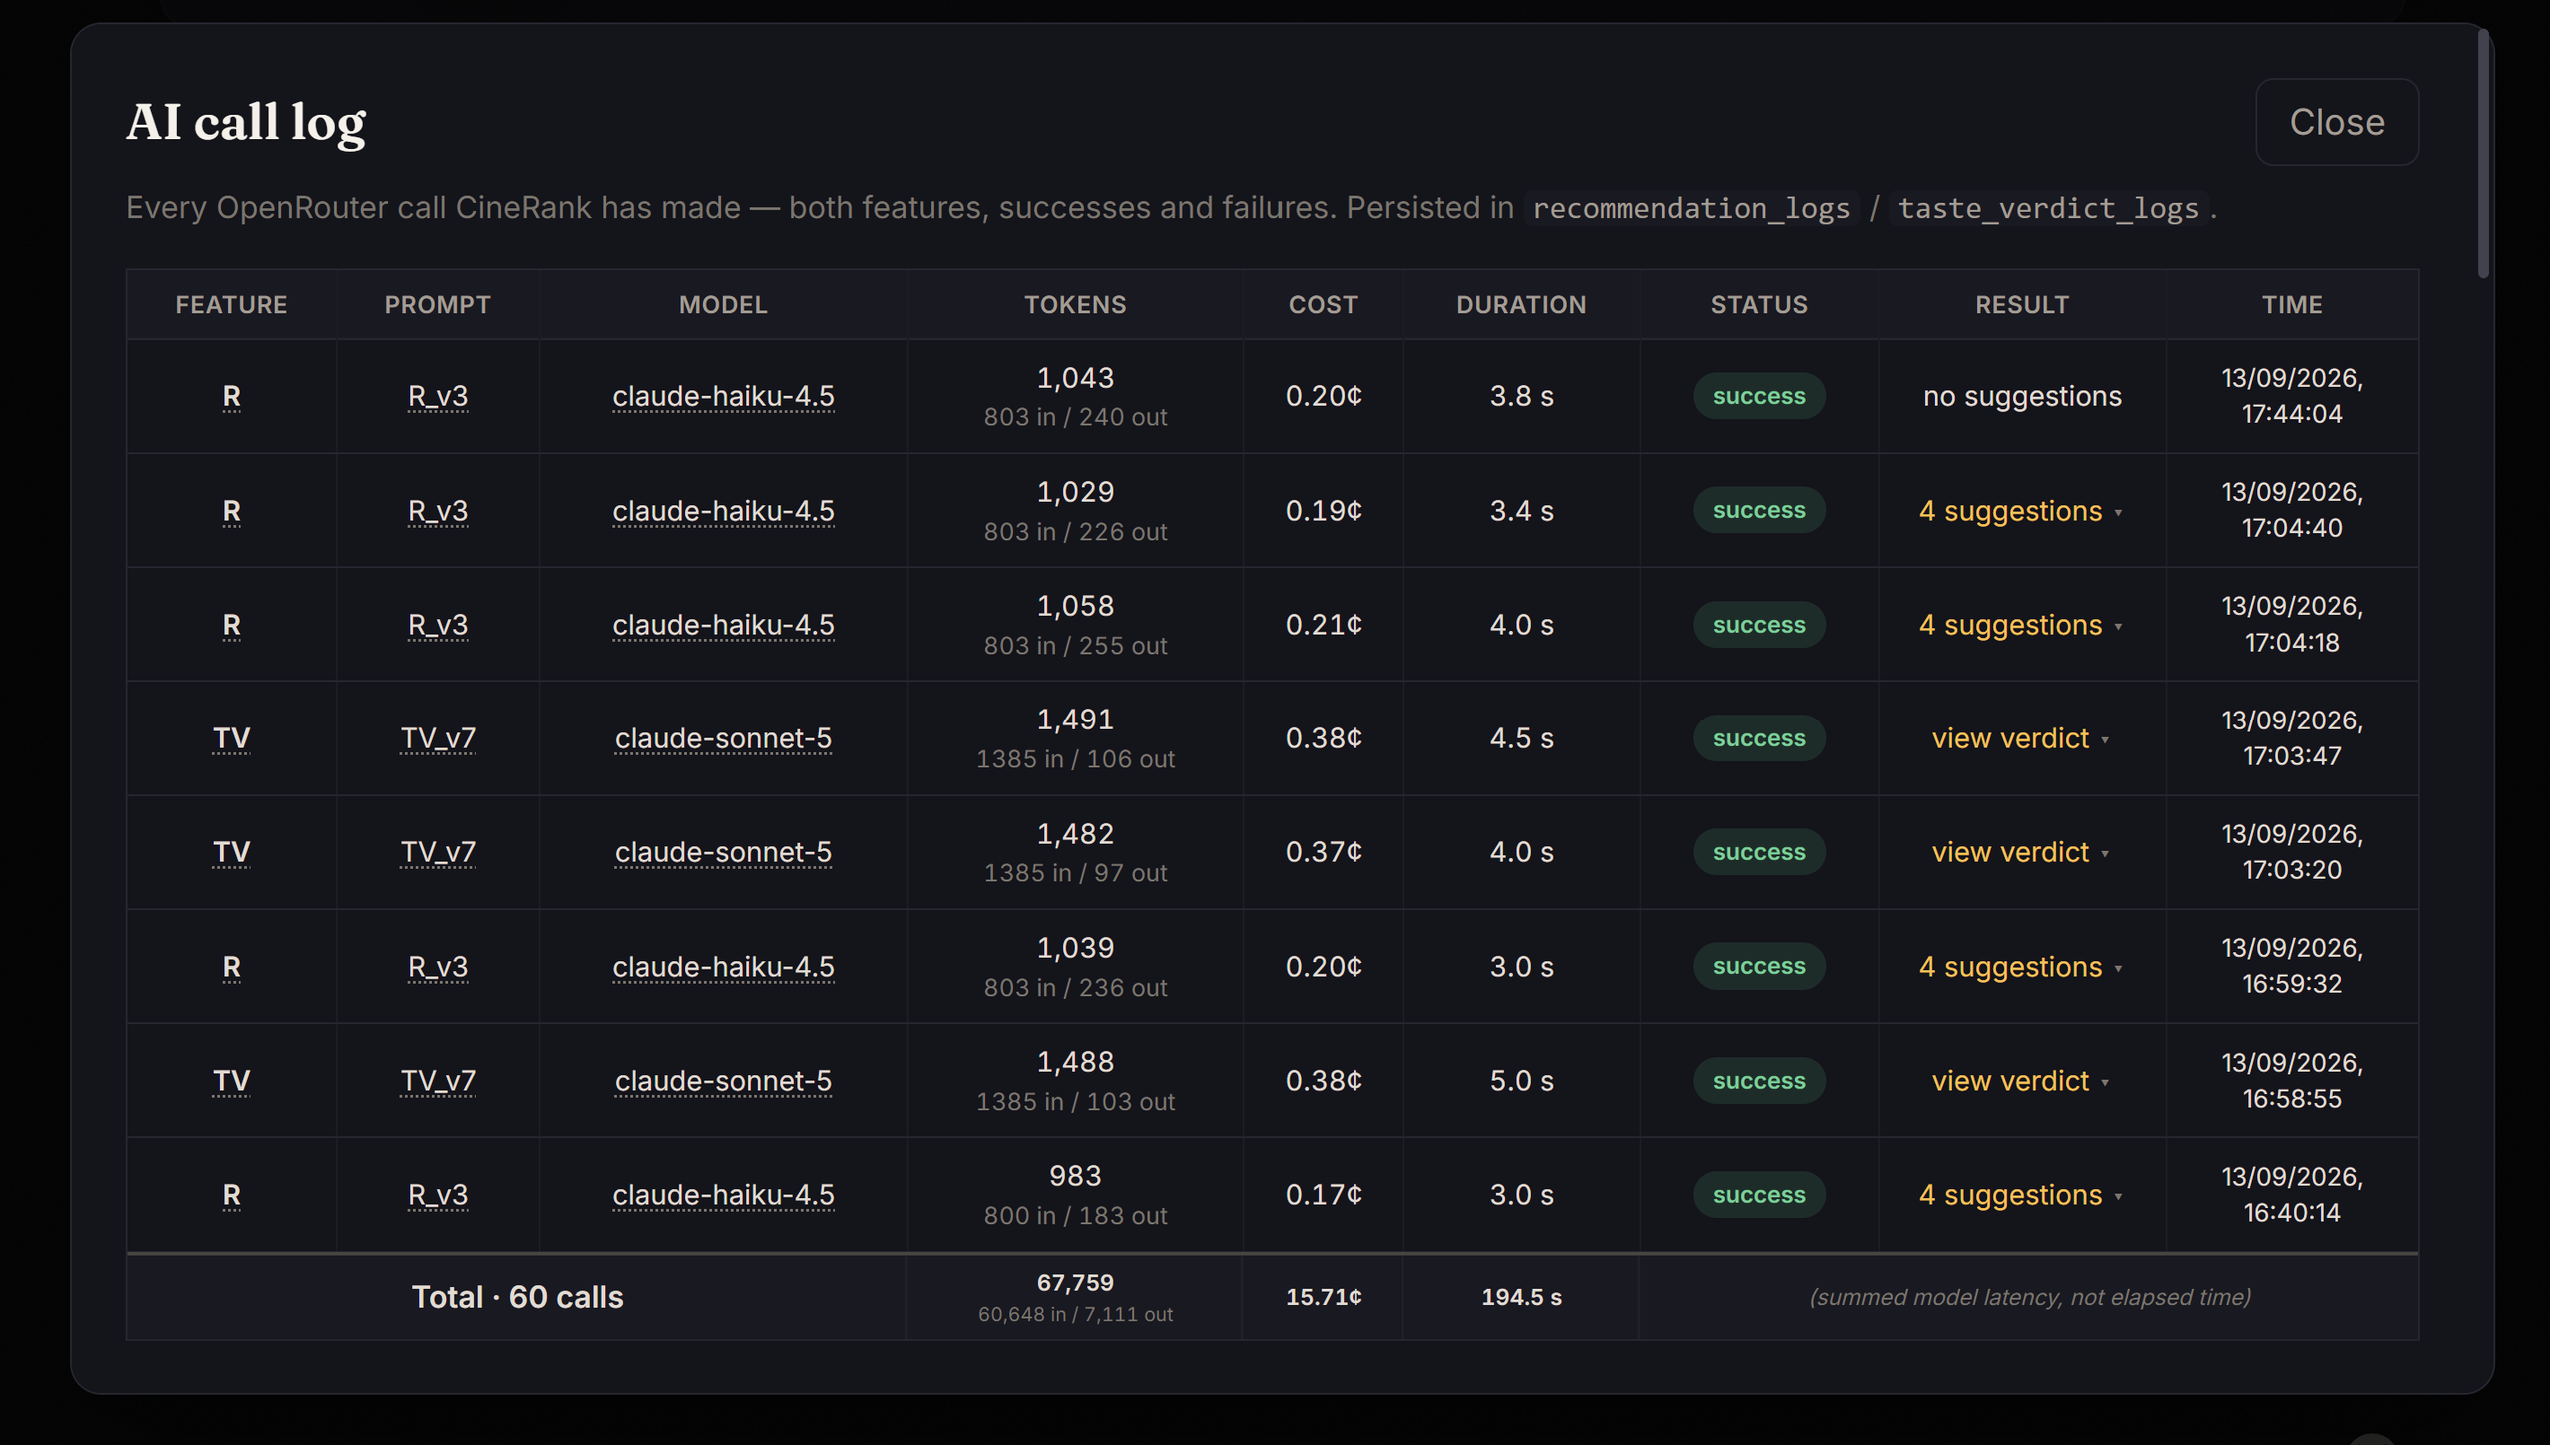
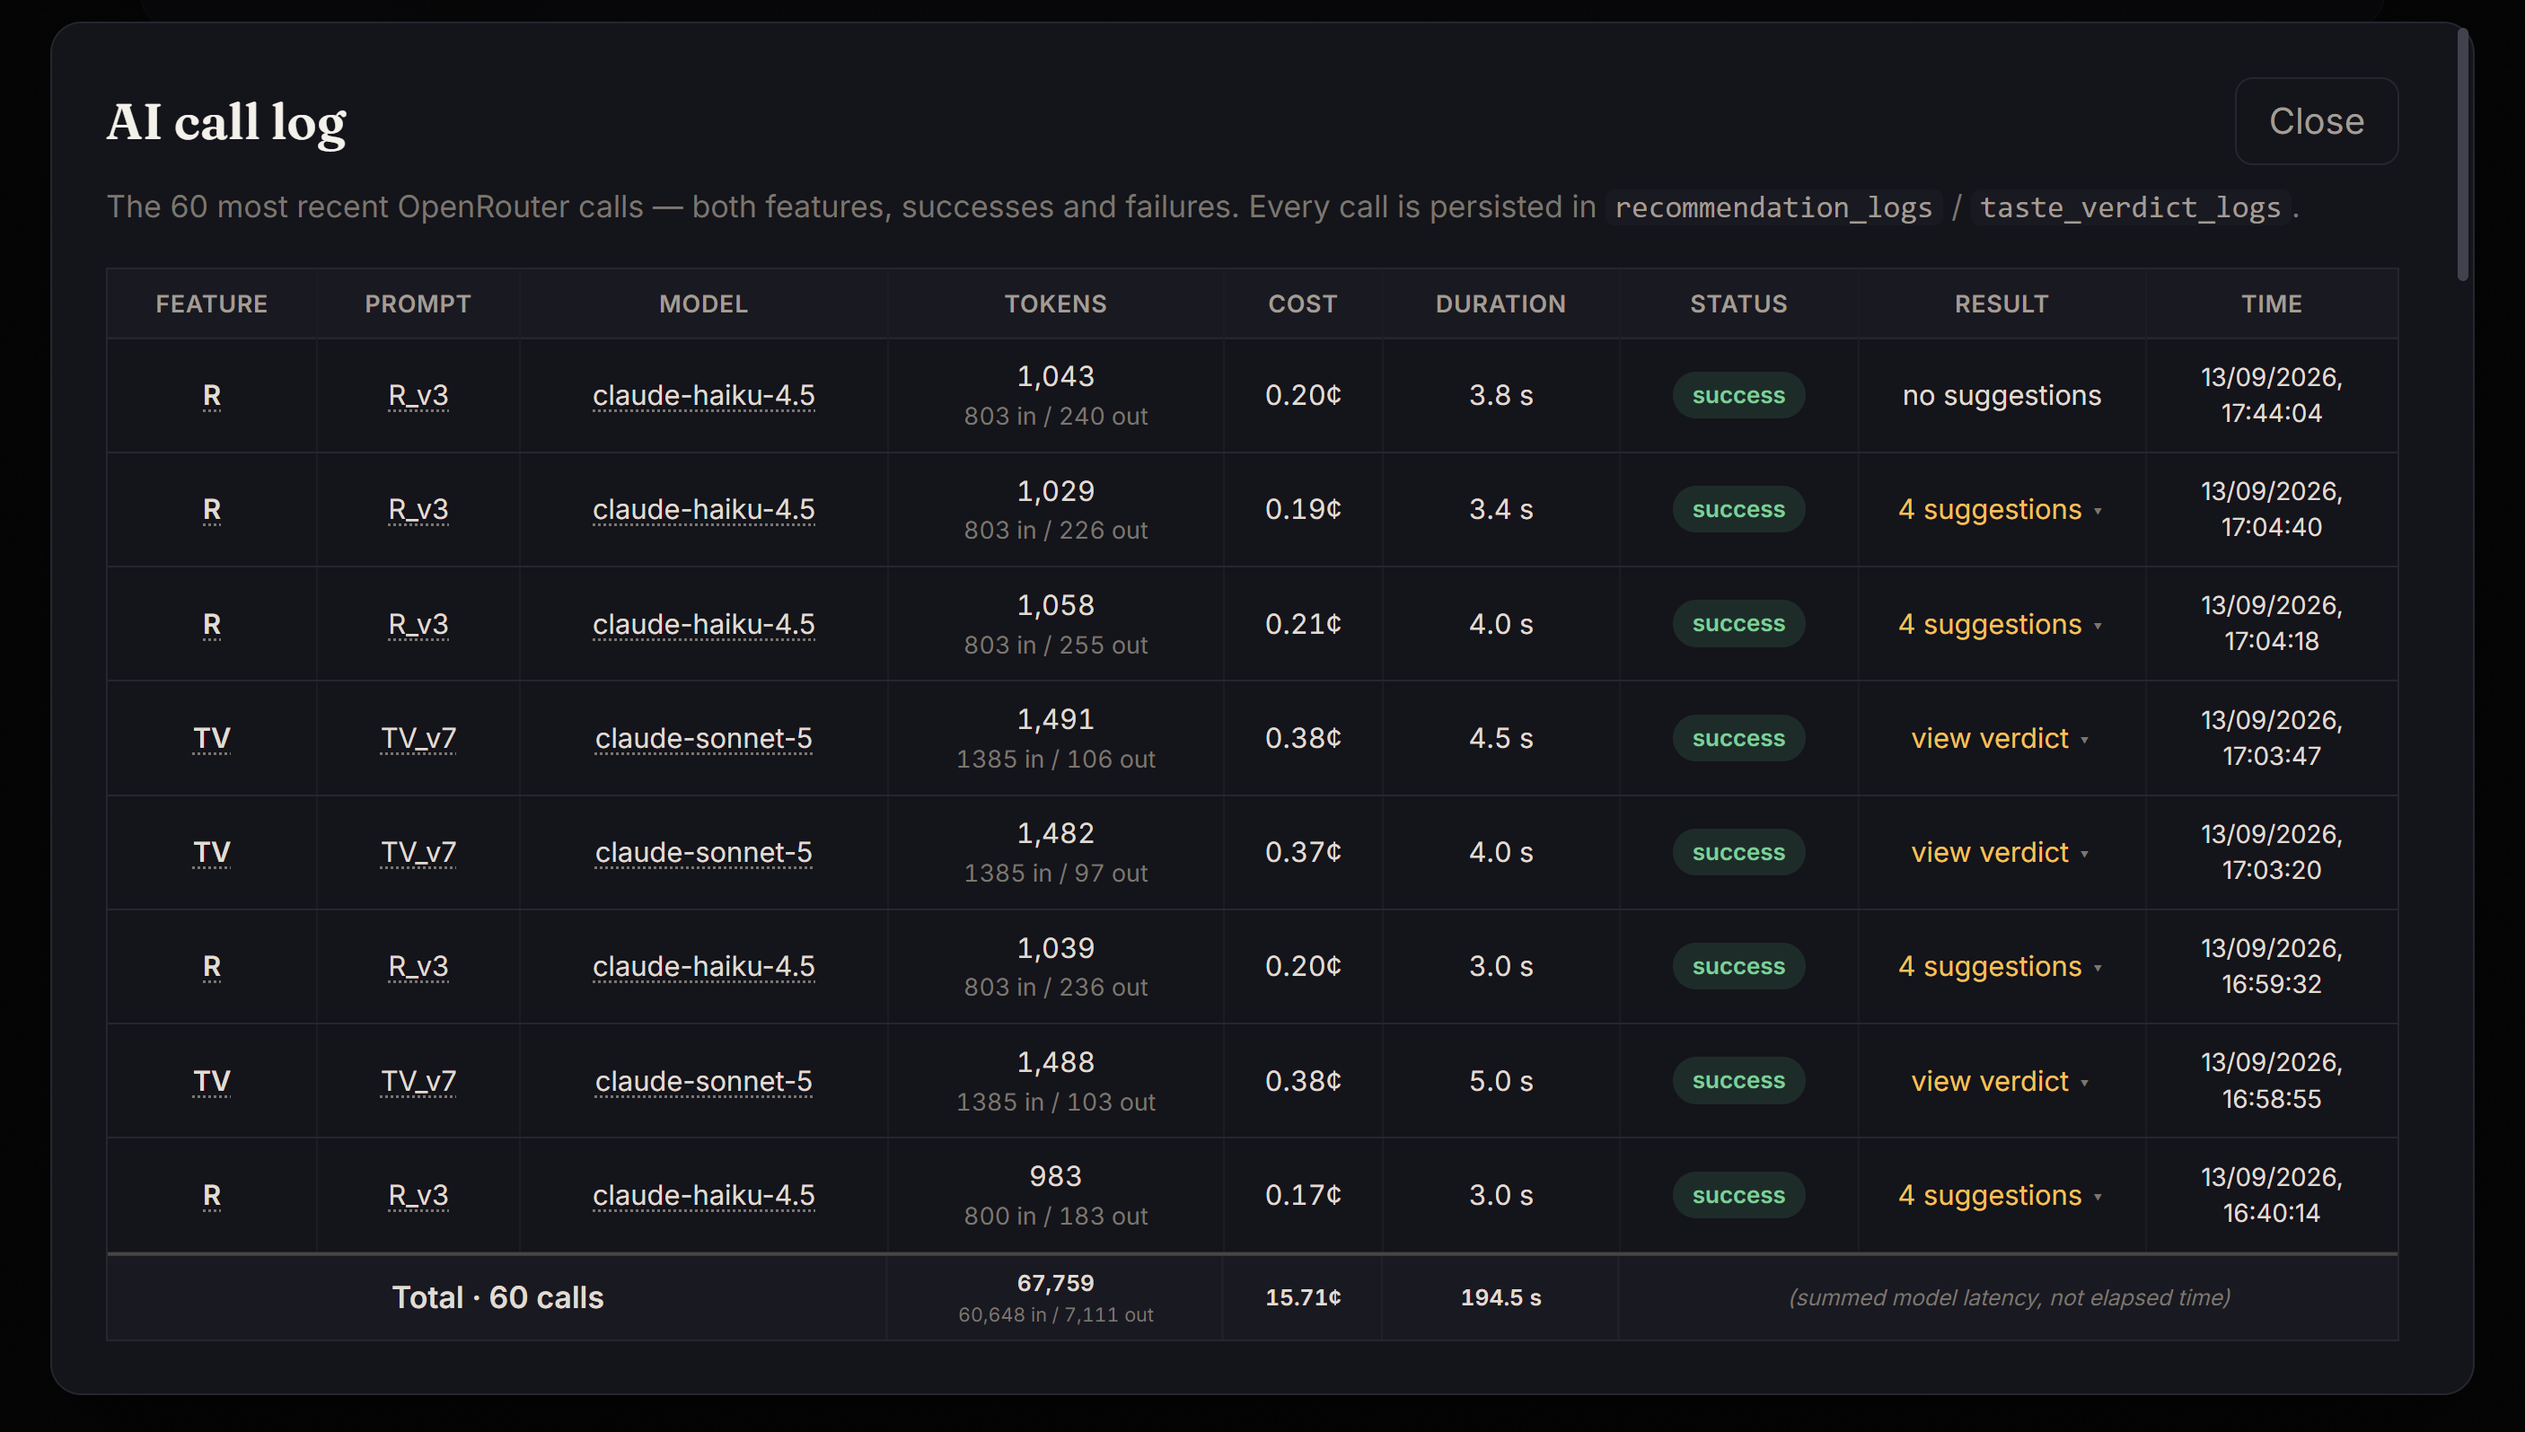
docs: RS-4 complete, and both log frames re-shot against the corrected copy
THE RS-4 LOG ROW. Red failed badge, OpenRouter responded 401 in crimson, em dashes in Tokens and Cost, 74 ms. Each of those carries something. The cause names OpenRouter, which is what rules out a leftover broken TMDB key from the previous group. The em dashes are a call that never completed reporting nothing rather than a misleading zero. And 74 ms says WHERE it died: rejected at auth, never reaching inference.

Put beside rs-4-openrouter-down-recs.png the pair is the whole claim. The user got a calm sentence with no technical detail; the audit trail got the real cause. Neither frame alone says that -- one shows discretion and the other shows the record, and only together do they show the split was deliberate rather than accidental.

BOTH LOG FRAMES RE-SHOT against the corrected blurb from the previous commit. The RS-3 frame was replaced in place; the RS-4 one was never committed with the old copy, having been held back deliberately once the overclaim was found.
[…]

diff --git a/CLAUDE.md b/CLAUDE.md
@@ -3208,11 +3208,26 @@ appears, unprompted. *Capturing* is deferred to the end; *noticing* is not.
     cost, and — in the AI call log — a green `success` row whose
     `suggested_titles` is empty. Before R28 this state claimed the model had only
     named films already in the list. Costs one real OpenRouter call.
-  - [ ] **RS-4 — HALF CAPTURED 2026-09-13. In-app frame done:
-    `docs/screenshots/rs-4-openrouter-down-recs.png`. STILL OWED: the log row,
-    a red `failed` whose Result cell carries the real technical cause.** Two
-    frames for the same reason RS-3 needed two: the split between the calm
-    sentence and the recorded cause IS the claim, so one frame cannot carry it.
+  - [x] **RS-4 · CAPTURED 2026-09-13 — two frames:
+    `docs/screenshots/rs-4-openrouter-down-recs.png` and
+    `docs/screenshots/rs-4-openrouter-down-recs-log.png`.** Two frames for the
+    same reason RS-3 needed two: the split between the calm sentence and the
+    recorded cause IS the claim, so one frame cannot carry it. The log row shows
+    `OpenRouter responded 401` in crimson beside a red `failed` badge, with `—`
+    in Tokens and Cost (nothing completed, so an em dash rather than a lying
+    `0`) and a 74 ms duration that says where it died: rejected at auth, never
+    reached inference.
+    **WHY THE TWO LOG FRAMES SHOW DIFFERENT TABLES, so it is not later read as
+    an inconsistency.** `rs-3-…-log.png` has no 17:54:01 failed row and
+    `rs-4-…-log.png` has it on top. Both were shot after the D-069 copy fix and
+    neither is scrolled; the RS-3 frame is near-certainly a cached
+    `/api/ai-log` response (the app fetches fresh on every open and the
+    endpoint sets no `Cache-Control`). **Kept deliberately rather than
+    re-shot:** a fresh RS-3 frame would put the failed row on top and push the
+    row its own caption points at into second place, making it a near-duplicate
+    of the RS-4 frame. Two visibly different tables — one before the failure,
+    one after — carry more than two near-identical ones, every figure in both
+    is a real state of that table, and neither asserts anything false.
     The captured frame shows the hint at `--ink-dim` rather than crimson (R24 —
     the amber link measured 2.48x brighter than crimson, so the pointer to
     details outshouted the statement of what broke), no metadata footer at all
